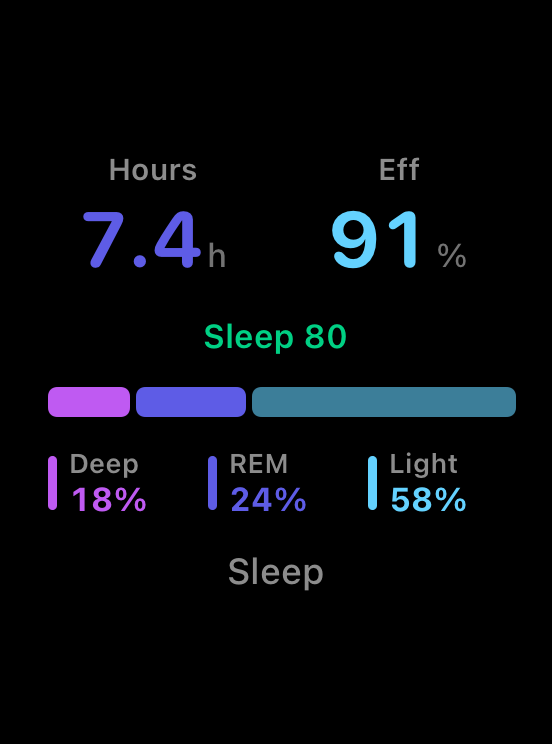
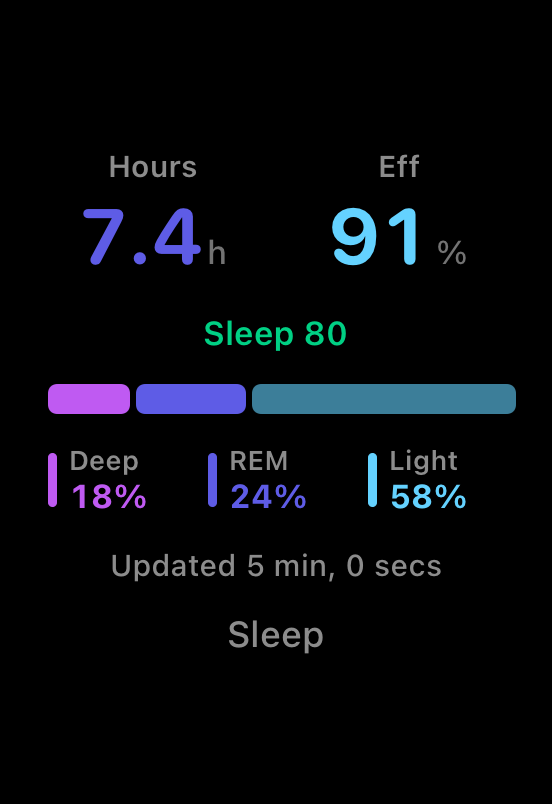
feat(watch): sync Updated cue into sleep/strain audit PNGs (Honest #53) (#71)
Audit sync after #52: WatchSleepChrome/WatchStrainChrome include compact live Updated from snapshotDate; refresh verify-watch-sleep.png + verify-watch-strain.png.

diff --git a/ReadinessTracker/Design/CompactStrainRecoveryWheel.swift b/ReadinessTracker/Design/CompactStrainRecoveryWheel.swift
@@ -92,6 +92,8 @@ struct WatchStrainChrome: View {
     let strainScore: Double
     let recoveryScore: Double
     var dayCue: String = "TODAY"
+    /// Glance freshness from `WatchSnapshot.date` (Honest #53 audit sync); hide if nil.
+    var snapshotDate: Date? = Date().addingTimeInterval(-5 * 60)
 
     private let recoveryColor = Color(red: 52/255, green: 199/255, blue: 89/255)
     private let strainColor = Color(red: 255/255, green: 149/255, blue: 0/255)
@@ -130,12 +132,22 @@ struct WatchStrainChrome: View {
                 .font(.system(size: 11, weight: .semibold))
                 .foregroundStyle(Color.white.opacity(0.55))
 
+            if let snapshotDate {
+                HStack(spacing: 0) {
+                    Text("Updated ")
+                    Text(snapshotDate, style: .relative)
+                }
+                .font(.system(size: 10, weight: .medium))
+                .foregroundStyle(Color.white.opacity(0.55))
+                .accessibilityElement(children: .combine)
+            }
+
             Text("Strain")
                 .font(.system(size: 12, weight: .medium))
                 .foregroundStyle(Color.white.opacity(0.55))
         }
         .padding(16)
-        .frame(width: 184, height: 268)
+        .frame(width: 184, height: 288)
         .background(Color.black)
     }
 

diff --git a/ReadinessTracker/Design/WatchSleepChrome.swift b/ReadinessTracker/Design/WatchSleepChrome.swift
@@ -8,6 +8,8 @@ struct WatchSleepChrome: View {
     var sleepScore: Int = 80
     var deepSleepPercent: Double = 0.18
     var remSleepPercent: Double = 0.24
+    /// Glance freshness from `WatchSnapshot.date` (Honest #53 audit sync); hide if nil.
+    var snapshotDate: Date? = Date().addingTimeInterval(-5 * 60)
 
     private var lightPercent: Double {
         max(0, 1 - deepSleepPercent - remSleepPercent)
@@ -57,12 +59,22 @@ struct WatchSleepChrome: View {
                 stageLegend(color: teal, title: "Light", percent: Int((lightPercent * 100).rounded()))
             }
 
+            if let snapshotDate {
+                HStack(spacing: 0) {
+                    Text("Updated ")
+                    Text(snapshotDate, style: .relative)
+                }
+                .font(.system(size: 10, weight: .medium))
+                .foregroundStyle(Color.white.opacity(0.55))
+                .accessibilityElement(children: .combine)
+            }
+
             Text("Sleep")
                 .font(.system(size: 12, weight: .medium))
                 .foregroundStyle(Color.white.opacity(0.55))
         }
         .padding(16)
-        .frame(width: 184, height: 248)
+        .frame(width: 184, height: 268)
         .background(Color.black)
     }
 

diff --git a/README.md b/README.md
@@ -39,10 +39,10 @@ Screenshots are Simulator captures from `./scripts/capture-surfaces.sh` (XCUITes
 | Classic `MetricDetailView` primary Trend scrub | Shipped. Today → Metrics cards open classic detail; `ChartScrubSelection` drag scrub + RuleMark/`ChartTooltip` on primary Trend chart (parity with Advanced) | [verify-metric-detail-classic-scrub.png](.audit/verify-metric-detail-classic-scrub.png) |
 | Home Screen widget (Gym / Work / Sleep) | Shipped. Small + medium + **large** + **extra large** use Fitness-style `CompactTripleRingsView`; large adds Gym/Work/Sleep rows + HRV/RHR/Sleep hours; extra large (iPad / StandBy) extends large with readiness cue + G/W/S metric tiles; **small** + medium/large/extra-large show Fitness-style live **Updated …** (`Text(..., style: .relative)`) from App Group `lastUpdate` (hide if missing; getSnapshot shares App Group load with timeline); medium/large/extra-large also show interactive **Check-in** / **Evening** / **Trends** (`Link` → `readinesstracker://checkin/{morning|evening}` + `readinesstracker://trends`) | [verify-home-widget.png](.audit/verify-home-widget.png) · [verify-home-widget-small-updated.png](.audit/verify-home-widget-small-updated.png) · [verify-home-widget-large.png](.audit/verify-home-widget-large.png) · [verify-home-widget-extra-large.png](.audit/verify-home-widget-extra-large.png) · [verify-home-widget-updated.png](.audit/verify-home-widget-updated.png) · [verify-home-widget-live-updated.png](.audit/verify-home-widget-live-updated.png) · [verify-home-widget-checkin.png](.audit/verify-home-widget-checkin.png) · [verify-home-widget-deeplinks.png](.audit/verify-home-widget-deeplinks.png) |
 | Watch dashboard hero (Gym / Work / Sleep + HRV\|RHR) | Shipped. Concentric Activity rings + elevated HRV\|RHR dual callout, Ready/Recovery cue, and compact live **Updated …** from `WatchSnapshot.date` (hide if missing); sleep/strain glances share the same cue; `WatchSnapshot` carries gym/work/sleep + vitals from WatchConnectivity | [verify-watch-dashboard.png](.audit/verify-watch-dashboard.png) |
-| Watch strain page (Recovery | Strain dual arcs + callout) | Shipped. WHOOP dual concentric arcs (Recovery inner / Strain outer) plus elevated Recovery % \| Strain /21 dual callout and day cue from `WatchSnapshot` via shared `StrainRecoveryDualArcGeometry` + `CompactStrainRecoveryWheel` | [verify-watch-strain.png](.audit/verify-watch-strain.png) |
+| Watch strain page (Recovery | Strain dual arcs + callout) | Shipped. WHOOP dual concentric arcs (Recovery inner / Strain outer) plus elevated Recovery % \| Strain /21 dual callout, day cue, and compact live **Updated …** from `WatchSnapshot.date` (hide if missing) via shared `StrainRecoveryDualArcGeometry` + `CompactStrainRecoveryWheel` | [verify-watch-strain.png](.audit/verify-watch-strain.png) |
 | Watch complication (Gym / Work / Sleep rings) | Shipped. WidgetKit accessory circular + **rectangular** + **inline** + **corner** Fitness-style glances in `ReadinessTrackerWatchWidgets` embedded in Watch App; rectangular mirrors Lock Screen (#33) with compact rings + readiness + short G/W/S cues; **inline** elevates colored readiness + short G/W/S (R/G/W/S) text cues within `accessoryInline` width (Lock #34 / rect #44 parity); **corner** keeps compact rings (#44) and elevates `widgetLabel` to colored readiness + short G/W/S cues (inline #45 / `WatchAccessoryCue` parity); timeline from App Group `lastWatchSnapshot` written by iOS `WatchConnectivityManager` / `WidgetDataExporter` + Watch `WatchSessionManager` mirror; iOS prefers WC `transferCurrentComplicationUserInfo` when budget remains **and** glance fields changed (else context/message; App Group always); Watch persist soft-fail reloads `ReadinessWatchComplication` timelines (**portal App Group enable remains manual** in `DEVICE_SETUP.md`) | [verify-watch-complication.png](.audit/verify-watch-complication.png) · [verify-watch-complication-rectangular.png](.audit/verify-watch-complication-rectangular.png) · [verify-watch-complication-inline.png](.audit/verify-watch-complication-inline.png) · [verify-watch-complication-corner.png](.audit/verify-watch-complication-corner.png) |
 | Watch Check-in (Morning / Evening) | Shipped. Wrist sheet elevates to Morning|Evening picker + feel stars + habit toggles; `WatchSessionManager.sendCheckIn` sends correct `timeOfDay` (Evening can include Workout); parity intent with iPhone Check-in tab | [verify-watch-checkin.png](.audit/verify-watch-checkin.png) |
-| Watch sleep page (Hours | Efficiency + stage legend) | Shipped. Wrist sleep glance elevates Hours|Eff dual callout (snapshot `sleepHours` + `sleepEfficiency`; no invented Need) + clearer Deep/REM/Light stage legend; optional Sleep score when present | [verify-watch-sleep.png](.audit/verify-watch-sleep.png) |
+| Watch sleep page (Hours | Efficiency + stage legend) | Shipped. Wrist sleep glance elevates Hours|Eff dual callout (snapshot `sleepHours` + `sleepEfficiency`; no invented Need) + clearer Deep/REM/Light stage legend; optional Sleep score when present; compact live **Updated …** from `WatchSnapshot.date` (hide if missing) | [verify-watch-sleep.png](.audit/verify-watch-sleep.png) |
 | Lock Screen circular + rectangular + inline (Gym / Work / Sleep) | Shipped. `accessoryCircular` + `accessoryRectangular` use Fitness-style `CompactTripleRingsView` (rectangular: compact rings + readiness score + short G/W/S cues); `accessoryInline` is a compact text glance (readiness score + short G/W/S cues) | [verify-lock-widget.png](.audit/verify-lock-widget.png) · [verify-lock-widget-rectangular.png](.audit/verify-lock-widget-rectangular.png) · [verify-lock-widget-inline.png](.audit/verify-lock-widget-inline.png) |
 | Official WHOOP API | Out of scope | Settings copy says so |
 | Google Fit REST / “Heart Points” | Out of scope | Activity = minutes + calories |
@@ -390,3 +390,4 @@ Do not commit `build/`, `build-DD/`, `Readiness.app`, or `Secrets.xcconfig`. The
 50. ~~Watch `WatchStrainView` already had WHOOP dual Recovery|Strain arcs (#30) but secondary rows stayed thin vs sleep/dashboard dual callouts.~~ Closed — elevated Recovery % | Strain /21 dual callout under the wheel + day cue from `WatchSnapshot.date` (no invented metrics; dual arcs kept); [verify-watch-strain.png](.audit/verify-watch-strain.png) refreshed via `Scripts/capture-watch-strain.sh` (ImageRenderer of elevated `WatchStrainChrome`).
 51. ~~Medium/large/XL Home widgets show live Updated (#41/#42) but `SmallWidgetView` still omitted freshness.~~ Closed — compact Fitness-style live **Updated …** (`Text(..., style: .relative)`, 9pt) on `SmallWidgetView` when App Group `lastUpdate` present (hide if missing; rings stay primary); [verify-home-widget-small-updated.png](.audit/verify-home-widget-small-updated.png) from `Scripts/capture-home-widget-small-updated.sh` (ImageRenderer of `HomeWidgetSmallChrome`) + refreshed [verify-home-widget.png](.audit/verify-home-widget.png).
 52. ~~Home widgets show live Updated (#41/#42/#51) but Watch dashboard/sleep/strain glances lacked freshness from existing `WatchSnapshot.date`.~~ Closed — compact Fitness-style live **Updated …** (`Text(..., style: .relative)`) via `WatchGlanceUpdatedCue` on `WatchDashboardView` (+ sleep/strain) when `snapshot.date` present (hide if missing); [verify-watch-dashboard.png](.audit/verify-watch-dashboard.png) refreshed via `Scripts/capture-watch-dashboard.sh` (ImageRenderer of `WatchDashboardChrome`).
+53. ~~Honest #52 shipped Updated on live Watch dashboard/sleep/strain views and refreshed dashboard audit PNG, but sleep/strain audit chrome PNGs still omitted Updated.~~ Closed — audit sync: `WatchSleepChrome` / `WatchStrainChrome` include the same compact live **Updated …** from `snapshotDate` (parity with `WatchGlanceUpdatedCue` / dashboard chrome); [verify-watch-sleep.png](.audit/verify-watch-sleep.png) + [verify-watch-strain.png](.audit/verify-watch-strain.png) refreshed via `Scripts/capture-watch-sleep.sh` / `Scripts/capture-watch-strain.sh` (ImageRenderer); tree-guard / capture-surfaces already list both PNGs.

diff --git a/progress.md b/progress.md
@@ -1,3 +1,11 @@
+## 2026-09-16 — Poteto: Honest #53 Watch sleep/strain Updated audit PNGs
+
+- Audit sync after #52: `WatchSleepChrome` / `WatchStrainChrome` now include compact live **Updated …** (`Text(..., style: .relative)`) from optional `snapshotDate` (default ~5m ago; hide if nil) — parity with live `WatchGlanceUpdatedCue` + dashboard chrome.
+- PNGs: `.audit/verify-watch-sleep.png` + `.audit/verify-watch-strain.png` refreshed via `Scripts/capture-watch-sleep.sh` / `Scripts/capture-watch-strain.sh` (`WatchSleepCaptureTests` / `WatchStrainCaptureTests` + `ImageRenderer`).
+- README Status + Honest gap #53; tree-guard / capture-surfaces already list both PNGs.
+- Branch: `feature/poteto-watch-updated-audit-pngs` → squash-merge to main.
+- Avoided: Portal, new features beyond audit sync, complications, WC, Lock filler.
+
 ## 2026-09-16 — Poteto: Honest #52 Watch glance Updated cue
 
 - Elevated Watch dashboard/sleep/strain with compact Fitness-style live **Updated …** (`Text(..., style: .relative)`) from existing `WatchSnapshot.date` via `WatchGlanceUpdatedCue` (hide if missing; no new fields).
